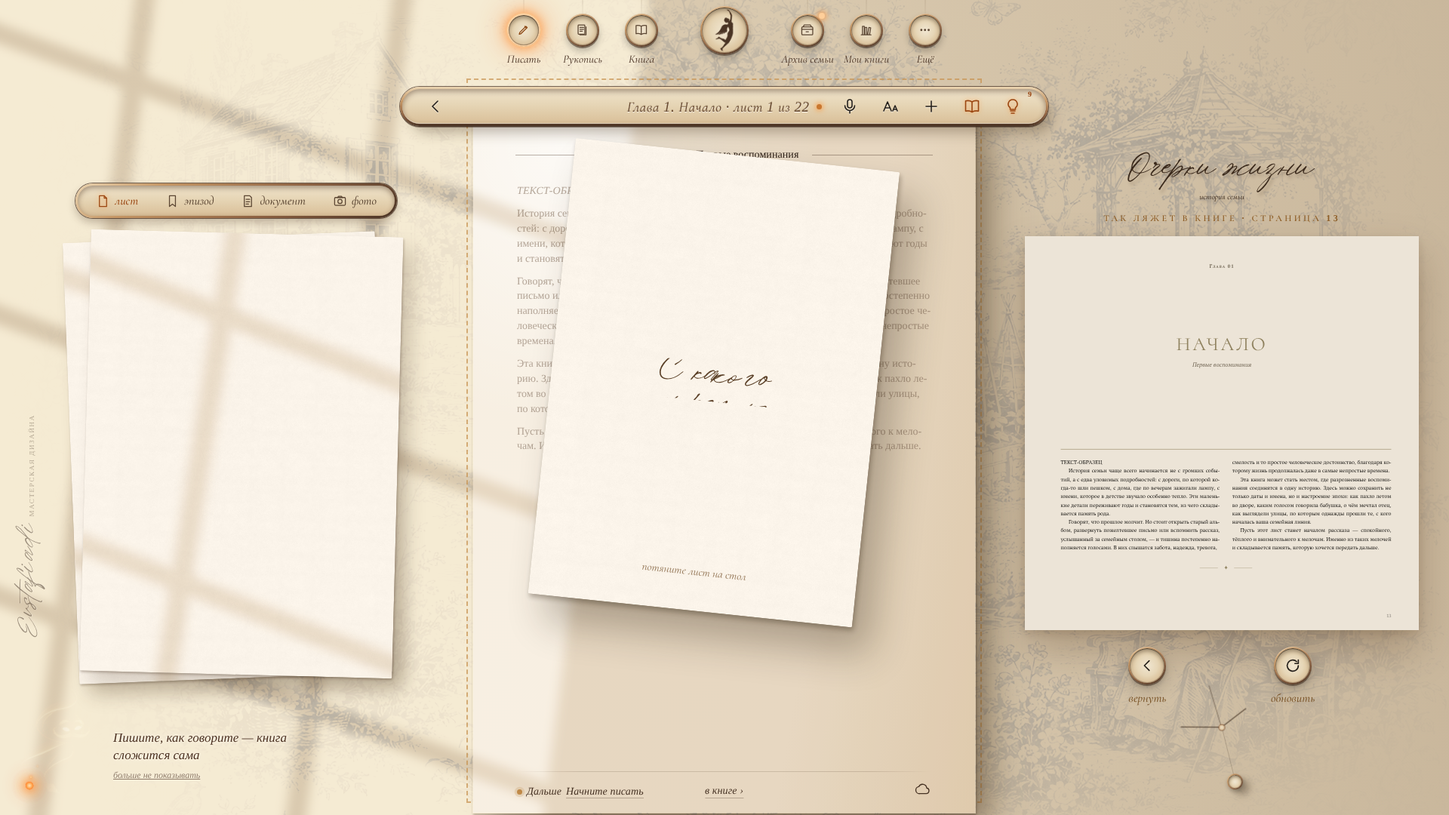
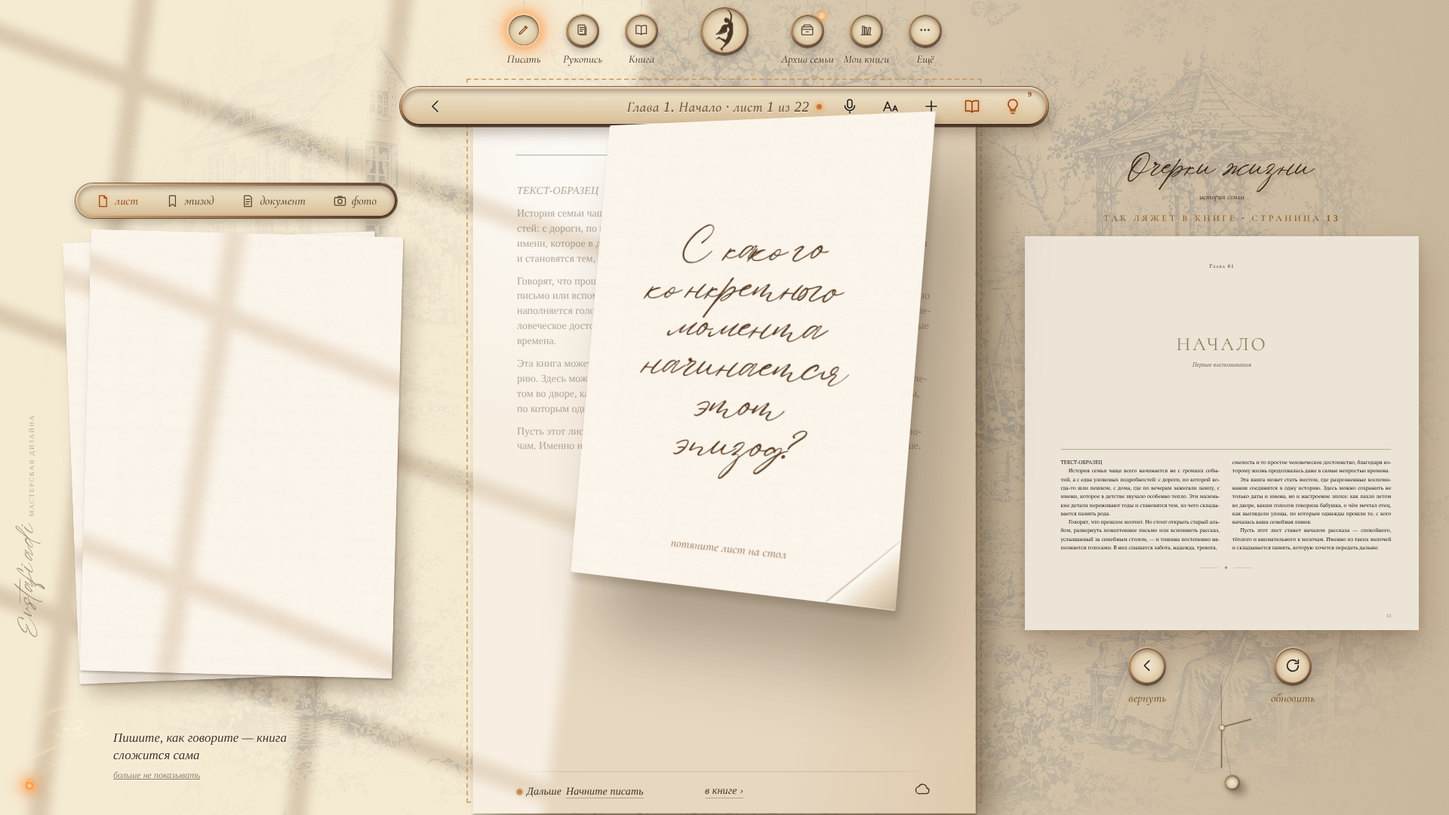
v198: живой лист — берётся за уголок, наклоняется к руке, качается в полёте и ложится на стол; копия листа без окна
Claude-Session: https://claude.ai/code/session_01523ibQ4Bpb3TawEG9d2zYP

diff --git a/shell.html b/shell.html
@@ -4,16 +4,16 @@
 <meta charset="utf-8"/>
 <meta name="viewport" content="width=device-width, initial-scale=1, viewport-fit=cover"/>
 <title>Очерки жизни — unified shell + paper keyboard</title>
-<link rel="stylesheet" href="app/common/001-base.css?v=20261107-v197" data-inline-from="style">
+<link rel="stylesheet" href="app/common/001-base.css?v=20261107-v198" data-inline-from="style">
 
 
 
 
 
 
-<script src="app/common/021-calm-dom-v142.js?v=20261107-v197" data-inline-from="script"></script>
-<script src="app/start/022-v35-auth-gate-state.js?v=20261107-v197" data-inline-from="script"></script>
-<link rel="stylesheet" href="book-renderer/design-pack-01.css?v=demo-book-20261107-v197">
+<script src="app/common/021-calm-dom-v142.js?v=20261107-v198" data-inline-from="script"></script>
+<script src="app/start/022-v35-auth-gate-state.js?v=20261107-v198" data-inline-from="script"></script>
+<link rel="stylesheet" href="book-renderer/design-pack-01.css?v=demo-book-20261107-v198">
 </head>
 <body>
 <div class="shell is-night ui-boot" id="shell">
@@ -215,7 +215,7 @@
   <div class="editor-stage" id="editorStage" aria-label="Рабочая область">
     <div class="editor-paper-wrap" id="editorPaperWrap">
       <div class="editor-paper v35-host-paper">
-        <iframe id="v35SheetFrame" class="v35-sheet-frame" allow="microphone" src="sheet_v35.html?v=demo-book-20261107-v197" title="Редактор книги"></iframe>
+        <iframe id="v35SheetFrame" class="v35-sheet-frame" allow="microphone" src="sheet_v35.html?v=demo-book-20261107-v198" title="Редактор книги"></iframe>
       </div>
       <div class="editor-paper-shadow"></div>
     </div>
@@ -307,7 +307,7 @@
     </div>
   </div>
 </div>
-<script src="app/common/025-shell-core.js?v=20261107-v197" data-inline-from="script"></script>
+<script src="app/common/025-shell-core.js?v=20261107-v198" data-inline-from="script"></script>
 
 
 
@@ -324,15 +324,15 @@
 
 
 
-<script src="app/common/042-boot-and-map.js?v=20261107-v197" data-inline-from="script"></script>
+<script src="app/common/042-boot-and-map.js?v=20261107-v198" data-inline-from="script"></script>
 
 
-<script src="book-renderer/geo-cities.js?v=demo-book-20261107-v197"></script><script src="book-renderer/geo-atlas.js?v=demo-book-20261107-v197"></script><script src="book-renderer/design-pack-01.js?v=demo-book-20261107-v197"></script>
-<script src="book-renderer/book-engine.js?v=demo-book-20261107-v197"></script>
-<script src="book-renderer/project-store.js?v=demo-book-20261107-v197"></script>
-<script src="book-renderer/design-pack-01.layout.js?v=demo-book-20261107-v197"></script>
-<script src="book-renderer/layout-pagination-engine.js?v=demo-book-20261107-v197"></script>
-<script src="app/book/044-v103-book-assembly-controller.js?v=20261107-v197" data-inline-from="script"></script>
+<script src="book-renderer/geo-cities.js?v=demo-book-20261107-v198"></script><script src="book-renderer/geo-atlas.js?v=demo-book-20261107-v198"></script><script src="book-renderer/design-pack-01.js?v=demo-book-20261107-v198"></script>
+<script src="book-renderer/book-engine.js?v=demo-book-20261107-v198"></script>
+<script src="book-renderer/project-store.js?v=demo-book-20261107-v198"></script>
+<script src="book-renderer/design-pack-01.layout.js?v=demo-book-20261107-v198"></script>
+<script src="book-renderer/layout-pagination-engine.js?v=demo-book-20261107-v198"></script>
+<script src="app/book/044-v103-book-assembly-controller.js?v=20261107-v198" data-inline-from="script"></script>
 
 
 
@@ -384,7 +384,7 @@
 
 
 
-<script src="assets/archive/archive.js?v=20261107-v197"></script>
+<script src="assets/archive/archive.js?v=20261107-v198"></script>
 </body>
 
 
@@ -402,29 +402,29 @@
 
 
 
-<script src="app/common/common-early.js?v=20261107-v197"></script>
-<script src="app/manuscript/134-three-screens-script.js?v=20261107-v197" data-inline-from="script"></script>
-<script src="app/manuscript/manuscript.js?v=20261107-v197"></script>
+<script src="app/common/common-early.js?v=20261107-v198"></script>
+<script src="app/manuscript/134-three-screens-script.js?v=20261107-v198" data-inline-from="script"></script>
+<script src="app/manuscript/manuscript.js?v=20261107-v198"></script>
 
 
-<script src="app/topbar/keys.js?v=20261107-v197" data-inline-from="script"></script>
-<script src="app/book/book.js?v=20261107-v197"></script>
-<script src="app/write/write.js?v=20261107-v197"></script>
+<script src="app/topbar/keys.js?v=20261107-v198" data-inline-from="script"></script>
+<script src="app/book/book.js?v=20261107-v198"></script>
+<script src="app/write/write.js?v=20261107-v198"></script>
 
 
 
-<script src="app/common/common-late.js?v=20261107-v197"></script>
+<script src="app/common/common-late.js?v=20261107-v198"></script>
 
 
-<script src="assets/keeper/tour.js?v=20261107-v197"></script>
-<script src="app/start/start.js?v=20261107-v197"></script>
-<script src="app/topbar/topbar.js?v=20261107-v197"></script>
+<script src="assets/keeper/tour.js?v=20261107-v198"></script>
+<script src="app/start/start.js?v=20261107-v198"></script>
+<script src="app/topbar/topbar.js?v=20261107-v198"></script>
 
 
-<link rel="stylesheet" href="app/start/start.css?v=20261107-v197">
-<link rel="stylesheet" href="app/common/chrome.css?v=20261107-v197">
-<link rel="stylesheet" href="app/write/write.css?v=20261107-v197">
-<link rel="stylesheet" href="app/manuscript/manuscript.css?v=20261107-v197">
-<link rel="stylesheet" href="app/book/book.css?v=20261107-v197">
-<link rel="stylesheet" href="app/shelf/shelf.css?v=20261107-v197">
-<script src="app/shelf/shelf.js?v=20261107-v197"></script>
+<link rel="stylesheet" href="app/start/start.css?v=20261107-v198">
+<link rel="stylesheet" href="app/common/chrome.css?v=20261107-v198">
+<link rel="stylesheet" href="app/write/write.css?v=20261107-v198">
+<link rel="stylesheet" href="app/manuscript/manuscript.css?v=20261107-v198">
+<link rel="stylesheet" href="app/book/book.css?v=20261107-v198">
+<link rel="stylesheet" href="app/shelf/shelf.css?v=20261107-v198">
+<script src="app/shelf/shelf.js?v=20261107-v198"></script>

diff --git a/app/write/write.js b/app/write/write.js
@@ -480,16 +480,25 @@
   const act=a=>{try{FW()?.postMessage({type:'OCHERKI_SHEET_ACTION',act:a},'*');}catch(_){}};
   let drag=null;
   top.addEventListener('pointerdown',e=>{if(e.button!==0||e.target.closest('button'))return;e.preventDefault();
-    const r=top.getBoundingClientRect();const fl=top.cloneNode(true);fl.classList.add('ws-flyer');fl.querySelectorAll('.ws-tabs,.ws-nav,.ws-lt').forEach(x=>x.remove());// the window's light stays on the stack: a sheet in the hand is lit as it is lifted, not as it layfl.querySelector('.ws-q')?.classList.remove('in');fl.style.setProperty('--ws-w',r.width+'px');
+    const r=top.getBoundingClientRect();const fl=top.cloneNode(true);fl.classList.add('ws-flyer');// the window's light stays on the stack: a sheet in the hand is lit as it is lifted, not as it lay
+    fl.querySelectorAll('.ws-tabs,.ws-nav,.ws-lt').forEach(x=>x.remove());fl.querySelector('.ws-q')?.classList.remove('in');fl.style.setProperty('--ws-w',top.offsetWidth+'px');
     Object.assign(fl.style,{left:r.left+'px',top:r.top+'px',width:r.width+'px',height:r.height+'px'});document.body.appendChild(fl);top.classList.add('ws-away');
-    drag={fl,r,x0:e.clientX,y0:e.clientY,moved:false};try{top.setPointerCapture(e.pointerId);}catch(_){}});
+    drag={fl,r,x0:e.clientX,y0:e.clientY,moved:false,lx:e.clientX,vx:0,vy:0,ly:e.clientY};try{top.setPointerCapture(e.pointerId);}catch(_){}
+    // v198 — a live sheet: taken by its corner it lifts off the stack, tilts towards the hand, its shadow grows and softens
+    fl.style.transformOrigin=`${e.clientX-r.left}px ${e.clientY-r.top}px`;fl.classList.add('ws-lift');
+    requestAnimationFrame(()=>{fl.style.transform='perspective(1100px) rotateX(9deg) rotateY(-10deg) rotateZ(-1.5deg) scale(1.04)';});});
   top.addEventListener('pointermove',e=>{if(!drag)return;const dx=e.clientX-drag.x0,dy=e.clientY-drag.y0;if(Math.hypot(dx,dy)>5)drag.moved=true;
-    drag.fl.style.transform=`translate(${dx}px,${dy}px) rotate(${Math.max(-6,Math.min(6,dx/60))}deg) scale(1.03)`;
+    // it sways with the hand's speed: a sheet carried through the air leans into the move
+    drag.vx=drag.vx*.8+(e.clientX-drag.lx)*.2;drag.vy=drag.vy*.8+(e.clientY-drag.ly)*.2;drag.lx=e.clientX;drag.ly=e.clientY;
+    const ry=Math.max(-16,Math.min(16,-6-drag.vx*.9)),rx=Math.max(-6,Math.min(16,8+drag.vy*.6)),rz=Math.max(-5,Math.min(5,dx/90));
+    drag.fl.classList.remove('ws-lift');drag.fl.classList.add('ws-carry');
+    drag.fl.style.transform=`translate(${dx}px,${dy}px) perspective(1100px) rotateX(${rx.toFixed(1)}deg) rotateY(${ry.toFixed(1)}deg) rotateZ(${rz.toFixed(1)}deg) scale(1.07)`;
     const w=wrapEl()?.getBoundingClientRect();const over=w&&e.clientX>w.left&&e.clientX<w.right&&e.clientY>w.top&&e.clientY<w.bottom;shell.classList.toggle('ws-over',!!over);drag.over=over;});
   const finish=e=>{if(!drag)return;const d=drag;drag=null;shell.classList.remove('ws-over');const fl=d.fl;
     const lay=d.over||!d.moved;// a plain click lays it too: one press is enough for a hand that does not like to drag
-    if(lay){const w=wrapEl().getBoundingClientRect();fl.classList.add('ws-landing');
-      fl.style.transform=`translate(${w.left-d.r.left}px,${w.top-d.r.top}px) scale(${w.width/d.r.width},${w.height/d.r.height})`;fl.style.opacity='0';
+    if(lay){const w=wrapEl().getBoundingClientRect();fl.classList.remove('ws-lift','ws-carry');fl.classList.add('ws-landing');fl.style.transformOrigin='0 0';
+      // it is laid down: it flattens as it comes to rest, its corner settles, the shadow draws in — then it is the sheet itself
+      fl.style.transform=`translate(${w.left-d.r.left}px,${w.top-d.r.top}px) perspective(1600px) rotateX(0deg) scale(${w.width/d.r.width},${w.height/d.r.height})`;fl.style.opacity='0';
       setTimeout(()=>act(kind),260);setTimeout(()=>{fl.remove();top.classList.remove('ws-away');top.classList.add('ws-next');setTimeout(()=>top.classList.remove('ws-next'),700);},620);}
     else{fl.classList.add('ws-back');fl.style.transform='none';setTimeout(()=>{fl.remove();top.classList.remove('ws-away');},420);}};
   top.addEventListener('pointerup',finish);top.addEventListener('pointercancel',finish);

diff --git a/test-mode.html b/test-mode.html
@@ -1,7 +1,7 @@
 <!doctype html><html lang="ru"><head>
 <meta charset="utf-8"><meta name="viewport" content="width=device-width,initial-scale=1,viewport-fit=cover">
 <title>Очерки жизни — проверка разворотов</title>
-<link rel="stylesheet" href="book-renderer/fonts.css?v=demo-book-20261107-v197"><link rel="stylesheet" href="book-renderer/design-pack-01.css?v=demo-book-20261107-v197"><link rel="stylesheet" href="test-mode.css?v=demo-book-20261107-v197">
+<link rel="stylesheet" href="book-renderer/fonts.css?v=demo-book-20261107-v198"><link rel="stylesheet" href="book-renderer/design-pack-01.css?v=demo-book-20261107-v198"><link rel="stylesheet" href="test-mode.css?v=demo-book-20261107-v198">
 </head><body>
 <main id="viewer" class="tm-viewer" aria-label="Книжные развороты"><p id="empty" class="tm-empty">Добавьте текст или фотографии для проверки. Можно также открыть сохранённую копию проекта.</p><div id="stage" class="tm-stage" hidden><div id="canvas" class="tm-canvas"></div></div></main>
 <section id="editorProbe" class="tm-editor-probe" hidden aria-label="Диагностика редакторского переноса"><header><strong>T1–T2 · Редактируемый лист</strong><button id="closeEditorProbe" aria-label="Закрыть диагностику">×</button></header><div id="editorProbeText" class="tm-editor-probe-text" lang="ru" contenteditable="true" spellcheck="true"></div><pre id="editorProbeReport"></pre></section>
@@ -24,5 +24,5 @@
 <details class="tm-source"><summary>Сохранённая копия проекта</summary><p id="sourceInfo">Копия не открыта. Несохранённые изменения редактора сюда не передаются.</p><label>Открыть JSON-файл<input id="projectFile" type="file" accept=".json,application/json"></label><button id="downloadSource" disabled>Скачать копию для телефона</button></details>
 <button type="button" id="sheetApply" class="tm-primary">Применить</button>
 </dialog>
-<script src="book-renderer/editor-source-bridge.js?v=demo-book-20261107-v197"></script><script src="book-renderer/geo-cities.js?v=demo-book-20261107-v197"></script><script src="book-renderer/geo-atlas.js?v=demo-book-20261107-v197"></script><script src="book-renderer/design-pack-01.js?v=demo-book-20261107-v197"></script><script src="book-renderer/design-pack-01.layout.js?v=demo-book-20261107-v197"></script><script src="book-renderer/layout-pagination-engine.js?v=demo-book-20261107-v197"></script><script src="test-mode-state.js?v=demo-book-20261107-v197"></script><script src="test-mode.js?v=demo-book-20261107-v197"></script>
+<script src="book-renderer/editor-source-bridge.js?v=demo-book-20261107-v198"></script><script src="book-renderer/geo-cities.js?v=demo-book-20261107-v198"></script><script src="book-renderer/geo-atlas.js?v=demo-book-20261107-v198"></script><script src="book-renderer/design-pack-01.js?v=demo-book-20261107-v198"></script><script src="book-renderer/design-pack-01.layout.js?v=demo-book-20261107-v198"></script><script src="book-renderer/layout-pagination-engine.js?v=demo-book-20261107-v198"></script><script src="test-mode-state.js?v=demo-book-20261107-v198"></script><script src="test-mode.js?v=demo-book-20261107-v198"></script>
 </body></html>

diff --git a/index.html b/index.html
@@ -10,11 +10,11 @@
 <link rel="preload" as="script" href="assets/vendor/three/three.min.js">
 <link rel="preload" as="script" href="assets/vendor/three/EffectComposer.js">
 <link rel="preload" as="script" href="assets/vendor/three/UnrealBloomPass.js">
-<link rel="preload" as="script" href="assets/keeper/keeper3d.js?v=20261107-v197">
-<link rel="preload" as="script" href="assets/keeper/desk.js?v=20261107-v197">
+<link rel="preload" as="script" href="assets/keeper/keeper3d.js?v=20261107-v198">
+<link rel="preload" as="script" href="assets/keeper/desk.js?v=20261107-v198">
 <link rel="preload" as="image" href="assets/keeper/desk-paper.jpg">
 
-  <link rel="stylesheet" href="app/startpage/start-page.css?v=20261107-v197" data-inline-from="style">
+  <link rel="stylesheet" href="app/startpage/start-page.css?v=20261107-v198" data-inline-from="style">
 
 
 
@@ -278,7 +278,7 @@
     <iframe class="constructor-shell-frame" id="constructorShellFrame" allow="microphone" title="Конструктор книги" src="about:blank"></iframe>
   </div>
 
-  <script src="app/startpage/start-page.js?v=20261107-v197" data-inline-from="script"></script>
+  <script src="app/startpage/start-page.js?v=20261107-v198" data-inline-from="script"></script>
 
 
 
@@ -293,9 +293,9 @@
 
 
 
-<script src="book-renderer/project-store.js?v=demo-book-20261107-v197"></script>
-<link rel="stylesheet" href="app/shelf/shelf.css?v=20261107-v197">
-<script src="app/shelf/shelf.js?v=20261107-v197"></script>
+<script src="book-renderer/project-store.js?v=demo-book-20261107-v198"></script>
+<link rel="stylesheet" href="app/shelf/shelf.css?v=20261107-v198">
+<script src="app/shelf/shelf.js?v=20261107-v198"></script>
 
 
 <div class="kob" id="kob" aria-label="Вход в «Очерки жизни»"><div class="knight"><div class="night-base"></div><div class="night-artwork"></div><div class="night-main"></div><div class="night-warm"></div><div class="night-shadow"></div><div class="night-artwork-ink"></div><div class="night-vignette"></div></div><canvas></canvas><button type="button" class="kmus" id="kobMusic" aria-label="Музыка"><svg viewBox="0 0 24 24"><path d="M9 18V6l10-2v12"/><circle cx="6.5" cy="18" r="2.5"/><circle cx="16.5" cy="16" r="2.5"/></svg></button>
@@ -328,7 +328,7 @@
     <div class="acts"><button class="btn ghost" data-go="how">Назад</button><button class="btn main" data-go="finish" data-need="book">Создать книгу</button></div></section>
   <div class="dots"><i></i><i></i><i></i></div>
 </div>
-<script src="assets/keeper/tour.js?v=20261107-v197"></script>
-<script src="app/startpage/keeper-intro.js?v=20261107-v197" data-inline-from="script"></script>
+<script src="assets/keeper/tour.js?v=20261107-v198"></script>
+<script src="app/startpage/keeper-intro.js?v=20261107-v198" data-inline-from="script"></script>
 </body>
 </html>

diff --git a/app/startpage/keeper-intro.js b/app/startpage/keeper-intro.js
@@ -76,7 +76,7 @@
     const cover=id=>COVERS[[...String(id)].reduce((h,c)=>(h*31+c.charCodeAt(0))>>>0,7)%COVERS.length];
     box.innerHTML=rows.map(r=>`<div class="row">${r.map((b,k)=>`<div class="bk" data-id="${esc(b.id)}" style="--tilt:${[-1.2,.9,-.5][k]}deg">
         ${(()=>{const cv=cover(b.id);return `<div class="tag"><strong>${esc(b.title||'Книга без названия')}</strong><span>сохранена ${esc(when(b.savedAt)||'—')}${b.pages?` · ${b.pages} стр.`:''}</span></div>
-        <div class="cov" data-go="open" data-id="${esc(b.id)}" style="--ar:${cv.ar};--fx:${cv.fx}%;--fw:${cv.fw}%;${cv.dark?'--ink:linear-gradient(180deg,#6b4a22,#3e2a12 60%,#7a5428);--ink2:#7a5428;--sh:rgba(255,240,210,.5);':''}--fs:${(()=>{const t=String(b.title||''),w=Math.max(...t.split(/\s+/).map(x=>x.length),1);return Math.max(12,Math.min(24,Math.floor(100/(w*.7)),t.length>26?17:24));})()}px"><img src="assets/keeper/cover-${cv.n}.webp?v=20261107-v197" alt=""><div class="face"><b>книга</b><strong>${esc(b.title||'Книга без названия')}</strong></div></div>`;})()}
+        <div class="cov" data-go="open" data-id="${esc(b.id)}" style="--ar:${cv.ar};--fx:${cv.fx}%;--fw:${cv.fw}%;${cv.dark?'--ink:linear-gradient(180deg,#6b4a22,#3e2a12 60%,#7a5428);--ink2:#7a5428;--sh:rgba(255,240,210,.5);':''}--fs:${(()=>{const t=String(b.title||''),w=Math.max(...t.split(/\s+/).map(x=>x.length),1);return Math.max(12,Math.min(24,Math.floor(100/(w*.7)),t.length>26?17:24));})()}px"><img src="assets/keeper/cover-${cv.n}.webp?v=20261107-v198" alt=""><div class="face"><b>книга</b><strong>${esc(b.title||'Книга без названия')}</strong></div></div>`;})()}
         <div class="ops"><button type="button" class="op" data-go="open" data-id="${esc(b.id)}">Открыть</button><button type="button" class="op del" data-del="${esc(b.id)}">Удалить</button></div>
         <div class="ask"><span>Удалить «${esc(b.title||'книгу')}» навсегда?</span><button type="button" class="op del" data-del-yes="${esc(b.id)}">Удалить</button><button type="button" class="op" data-del-no>Оставить</button></div></div>`).join('')}</div>`).join('');}
   $('kobShelf').addEventListener('click',async e=>{const d=e.target.closest('[data-del]');if(d){e.stopPropagation();d.closest('.bk')?.classList.add('asking');return;}

diff --git a/app/book/044-v103-book-assembly-controller.js b/app/book/044-v103-book-assembly-controller.js
@@ -2933,7 +2933,7 @@
     const sheetWidth=spreadMode?size[0]*2:size[0];
     // Page mode keeps the canonical rule: @page{size:${size[0]}mm ${size[1]}mm;margin:0}
     const [,pageHeight]=currentPageSize();
-    return `<!doctype html><html lang="ru"><head><meta charset="utf-8"><base href="../"><link rel="stylesheet" href="book-renderer/fonts.css"><link rel="stylesheet" href="book-renderer/design-pack-01.css?v=demo-book-20261107-v197"><style>:root{--book-page-w:1000px;--book-page-h:${pageHeight}px}@page{size:${sheetWidth}mm ${size[1]}mm;margin:0}html,body{margin:0;background:#fff}.book-print-sheet{position:relative;width:${sheetWidth}mm;height:${size[1]}mm;overflow:hidden;break-after:page;page-break-after:always}.book-print-sheet:last-child{break-after:auto}.spread-sheet{display:grid;grid-template-columns:1fr 1fr}.spread-cell{position:relative;width:${size[0]}mm;height:${size[1]}mm;overflow:hidden}.dpk-page{position:absolute!important;left:0;top:0;transform-origin:0 0;transform:scale(${printScale});}</style></head><body class="book-format-${activeFormat}">${sheets}<style id="v77-cover-in-place">
+    return `<!doctype html><html lang="ru"><head><meta charset="utf-8"><base href="../"><link rel="stylesheet" href="book-renderer/fonts.css"><link rel="stylesheet" href="book-renderer/design-pack-01.css?v=demo-book-20261107-v198"><style>:root{--book-page-w:1000px;--book-page-h:${pageHeight}px}@page{size:${sheetWidth}mm ${size[1]}mm;margin:0}html,body{margin:0;background:#fff}.book-print-sheet{position:relative;width:${sheetWidth}mm;height:${size[1]}mm;overflow:hidden;break-after:page;page-break-after:always}.book-print-sheet:last-child{break-after:auto}.spread-sheet{display:grid;grid-template-columns:1fr 1fr}.spread-cell{position:relative;width:${size[0]}mm;height:${size[1]}mm;overflow:hidden}.dpk-page{position:absolute!important;left:0;top:0;transform-origin:0 0;transform:scale(${printScale});}</style></head><body class="book-format-${activeFormat}">${sheets}<style id="v77-cover-in-place">
 .book-preview-spread.is-cover::after,.book-preview-spread.is-cover::before{display:none!important}
 .book-preview-spread>.book-preview-half.is-ghost{visibility:hidden!important;background:none!important;box-shadow:none!important;pointer-events:none}
 </style>

diff --git a/app/write/write.css b/app/write/write.css
@@ -796,3 +796,17 @@ html:has(.shell.is-night) .ws-left .ws-tabs .nf{opacity:1}
 html:has(.shell.is-night) .ws-left .ws-tabs button{color:#e8d2ae}
 html:has(.shell.is-night) .ws-left .ws-tabs button.on{color:#ffd29a}html:has(.shell.is-night) .ws-left .ws-tabs button.on svg{filter:drop-shadow(0 0 4px rgba(255,150,60,.85))}
 .ws-flyer .ws-q{animation:none!important;opacity:1!important;filter:none!important}
+/* v198 — a live sheet in the hand */
+.ws-flyer{transform-style:flat!important;will-change:transform}
+.ws-flyer.ws-lift{transition:transform .28s cubic-bezier(.2,.8,.3,1),box-shadow .28s ease;box-shadow:2px 4px 6px rgba(40,25,10,.25),30px 40px 60px rgba(40,25,10,.32)!important}
+.ws-flyer.ws-carry{transition:transform .12s linear,box-shadow .3s ease;box-shadow:4px 8px 10px rgba(40,25,10,.18),46px 70px 90px rgba(40,25,10,.30)!important}
+.ws-flyer.ws-landing{transition:transform .62s cubic-bezier(.3,.7,.2,1),opacity .3s ease .38s,box-shadow .5s ease!important;box-shadow:1px 2px 3px rgba(40,25,10,.3),8px 12px 20px rgba(40,25,10,.22)!important}
+/* the corner the hand holds lifts a little */
+.ws-flyer::after{content:"";position:absolute;right:0;bottom:0;width:20%;height:14%;pointer-events:none;
+  background:linear-gradient(135deg,transparent 48%,rgba(80,55,30,.18) 50%,rgba(255,252,244,.95) 52%,rgba(232,218,196,1) 72%,rgba(200,180,150,1) 100%);
+  clip-path:polygon(100% 0,100% 100%,0 100%);filter:drop-shadow(-3px -3px 4px rgba(60,40,20,.25));transition:opacity .25s}
+.ws-flyer.ws-landing::after,.ws-flyer.ws-back::after{opacity:0}
+html:has(.shell.is-night) .ws-flyer::after{filter:drop-shadow(-3px -3px 4px rgba(0,0,0,.5)) brightness(.7)}
+html:has(.shell.is-night) .ws-flyer{filter:brightness(.82) sepia(.15)}
+.ws-flyer .ws-q{max-height:none!important;overflow:visible!important}
+.ws-flyer.ws-landing .ws-q,.ws-flyer.ws-landing .ws-hint{opacity:0!important;transition:opacity .18s ease!important}

diff --git a/test-mode-runner.html b/test-mode-runner.html
@@ -1,3 +1,3 @@
-<!doctype html><html lang="ru"><head><meta charset="utf-8"><meta name="viewport" content="width=device-width,initial-scale=1"><link rel="stylesheet" href="book-renderer/fonts.css?v=demo-book-20261107-v197"><link rel="stylesheet" href="book-renderer/design-pack-01.css?v=demo-book-20261107-v197"></head><body>
-<script src="book-renderer/geo-cities.js?v=demo-book-20261107-v197"></script><script src="book-renderer/geo-atlas.js?v=demo-book-20261107-v197"></script><script src="book-renderer/design-pack-01.js?v=demo-book-20261107-v197"></script><script src="book-renderer/book-engine.js?v=demo-book-20261107-v197"></script><script src="book-renderer/design-pack-01.layout.js?v=demo-book-20261107-v197"></script><script src="book-renderer/layout-pagination-engine.js?v=demo-book-20261107-v197"></script><script src="test-mode-runner.js?v=demo-book-20261107-v197"></script>
+<!doctype html><html lang="ru"><head><meta charset="utf-8"><meta name="viewport" content="width=device-width,initial-scale=1"><link rel="stylesheet" href="book-renderer/fonts.css?v=demo-book-20261107-v198"><link rel="stylesheet" href="book-renderer/design-pack-01.css?v=demo-book-20261107-v198"></head><body>
+<script src="book-renderer/geo-cities.js?v=demo-book-20261107-v198"></script><script src="book-renderer/geo-atlas.js?v=demo-book-20261107-v198"></script><script src="book-renderer/design-pack-01.js?v=demo-book-20261107-v198"></script><script src="book-renderer/book-engine.js?v=demo-book-20261107-v198"></script><script src="book-renderer/design-pack-01.layout.js?v=demo-book-20261107-v198"></script><script src="book-renderer/layout-pagination-engine.js?v=demo-book-20261107-v198"></script><script src="test-mode-runner.js?v=demo-book-20261107-v198"></script>
 </body></html>

diff --git a/qa/v45_expected_margin_validation_test.js b/qa/v45_expected_margin_validation_test.js
@@ -5,7 +5,7 @@ assert(testMode.includes('let overflowError=null;'),'acceptance does not isolate
 assert(testMode.includes('catch(error){overflowError=error;}'),'expected manual-margin validation still aborts acceptance');
 assert(testMode.includes("T9:{status:overflowError?.message==='Заметка на поле не помещается в две строки. Сократите её и пересоберите книгу.'"),'T9 no longer verifies the expected validation result');
 assert(!testMode.includes('overflowView.layout.warnings'),'acceptance still reads a result that cannot exist for a blocking manual validation');
-assert(testMode.includes("test-mode-runner.html?v=demo-book-20261107-v197"),'runner cache is not refreshed');
-assert(html.includes('demo-book-20261107-v197'),'test mode cache is not refreshed');
+assert(testMode.includes("test-mode-runner.html?v=demo-book-20261107-v198"),'runner cache is not refreshed');
+assert(html.includes('demo-book-20261107-v198'),'test mode cache is not refreshed');
 assert.equal(JSON.parse(read('book-renderer/design-pack-01.manifest.json')).version,'1.16.0-stable-important-reflow');
 console.log(JSON.stringify({status:'pass',expectedManualMarginError:'isolated',acceptanceContinues:true,renderer:'unchanged-v23'}));

diff --git a/qa/v43_visible_editorial_runtime_test.js b/qa/v43_visible_editorial_runtime_test.js
@@ -48,6 +48,6 @@ assert(!source.includes("fallback:'source-kept-in-prose'"),'automatic accent sti
 // An unplaceable automatic accent no longer stops the whole book; it is
 // recorded explicitly so the author can see which page lost it.
 assert(source.includes("code:'ACCENT_AUTO_UNPLACED'")&&source.includes("fallback:'plain-text-page'"),'automatic accent fallback is not recorded');
-for(const file of ['index.html','shell.html','test-mode-runner.html'])assert(read(file).includes('demo-book-20261107-v197'),`${file} has a stale cache key`);
-assert(read('test-mode.html').includes('demo-book-20261107-v197'),'test-mode.html has a stale cache key');
+for(const file of ['index.html','shell.html','test-mode-runner.html'])assert(read(file).includes('demo-book-20261107-v198'),`${file} has a stale cache key`);
+assert(read('test-mode.html').includes('demo-book-20261107-v198'),'test-mode.html has a stale cache key');
 console.log(JSON.stringify({status:'pass',rhythm:body.map(page=>page.rhythm),noBlankPostOpening:true,automaticRetries:[...attempts.values()].some(value=>value>1),sourceInvariant:'exact'}));

diff --git a/test-mode.js b/test-mode.js
@@ -9,7 +9,7 @@
       request={id:++serial,structure,meta,resolve,reject};
       runner=document.createElement('iframe');runner.className='tm-runner';runner.title='Раскладка материала';runner.setAttribute('aria-hidden','true');runner.tabIndex=-1;
       const [w,h]=engine.FORMATS[meta.format||'square'];runner.width=String(w);runner.height=String(h);
-      if(standaloneRunner)runner.srcdoc=standaloneRunner;else runner.src='test-mode-runner.html?v=demo-book-20261107-v197';
+      if(standaloneRunner)runner.srcdoc=standaloneRunner;else runner.src='test-mode-runner.html?v=demo-book-20261107-v198';
       document.body.appendChild(runner);
       startupTimer=setTimeout(()=>{if(request){const pending=request;request=null;pending.reject(Error('Не удалось загрузить модуль раскладки. Проверьте, что сервер запущен и архив распакован целиком.'));runner?.remove();runner=null;}},15000);
     });

diff --git a/sheet_v35.html b/sheet_v35.html
@@ -8,7 +8,7 @@
 <script src="book-renderer/project-store.js"></script>
 <script src="book-renderer/tree-editor.js"></script>
 <script src="book-renderer/people-marker.js"></script>
-<link rel="stylesheet" href="app/sheet/sheet.css?v=20261107-v197" data-inline-from="style">
+<link rel="stylesheet" href="app/sheet/sheet.css?v=20261107-v198" data-inline-from="style">
 
 </head>
 <body>
@@ -98,7 +98,7 @@
 <input id="photoInput" type="file" accept="image/*" multiple hidden>
 <input id="photoReplaceInput" type="file" accept="image/*" hidden>
 
-<script src="app/sheet/sheet.js?v=20261107-v197" data-inline-from="script"></script>
+<script src="app/sheet/sheet.js?v=20261107-v198" data-inline-from="script"></script>
 </body>
 </html>
 
